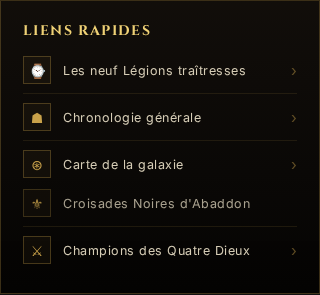
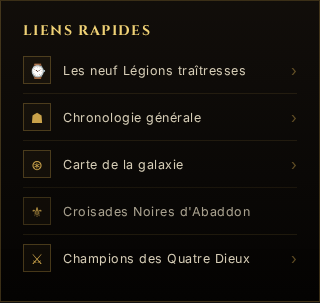
fix(L237): fiche faction, chaque rangée de la colonne latérale garde son filet
Le sélecteur .row-link:first-of-type visait le premier <div> (ou le premier <a>)
du bloc, pas la première rangée : une rangée en texte simple après des liens
(« Croisades Noires d'Abaddon », « Mythes du Panthéon ») perdait filet et marge
(39 px au lieu de 47), et un lien après une rangée texte aussi (« Carte de la
galaxie » chez les Aeldari). Désormais h3 + .row-link / h3 + .row-stat.

Test navigateur faction-rangees-l237.e2e.spec.ts (CSM et Aeldari, 1440 et 390 px,
rouge avant le correctif), ajouté à test:e2e. Captures de la Nouveauté refaites.

diff --git a/frontend/src/app/features/faction-detail/faction-rangees-l237.e2e.spec.ts b/frontend/src/app/features/faction-detail/faction-rangees-l237.e2e.spec.ts
@@ -1,0 +1,81 @@
+// @vitest-environment node
+// L237 (revue UX r1) — colonne latérale de la fiche faction : chaque rangée, lien ou texte simple, porte le même
+// filet et la même hauteur ; seule la première sous le titre du bloc n'a pas de filet. Avant :
+// `.row-link:first-of-type` visait le premier <div> du bloc, si bien qu'une rangée en texte simple placée après
+// des liens (« Croisades Noires d'Abaddon », « Mythes du Panthéon ») perdait filet et marge (39 px au lieu de 47)
+// et se lisait comme le sous-titre du lien du dessus (Gestalt, proximité). Navigateur réel, dist.
+import { afterAll, beforeAll, describe, expect, it } from 'vitest';
+import type { Server } from 'node:http';
+import type { Browser } from 'playwright-core';
+import { distState, startDistServer } from '../../../testing/dist-server';
+
+const { built, stale } = distState(['src/app/features/faction-detail/faction-detail.component.scss', 'src/app/features/faction-detail/faction-detail.component.ts']);
+let chromium: typeof import('playwright-core').chromium | null = null;
+try {
+  chromium = (await import('playwright-core')).chromium;
+} catch {
+  chromium = null;
+}
+
+type Rangee = { bloc: string; label: string; statique: boolean; premiere: boolean; filet: string; haut: number; hauteur: number };
+
+describe.skipIf(!built || !chromium)('rangées de la colonne latérale de la fiche faction (navigateur, dist) — L237', () => {
+  let server: Server;
+  let browser: Browser;
+  let base: string;
+  beforeAll(async () => {
+    ({ base, server } = await startDistServer());
+    browser = await chromium!.launch();
+  });
+  afterAll(async () => {
+    await browser?.close();
+    server?.close();
+  });
+
+  it('application construite à jour (sinon : ng build)', () => {
+    expect(stale).toBe(false);
+  });
+
+  for (const [id, texte] of [['chaos-space-marines', "Croisades Noires d'Abaddon"], ['aeldari', 'Mythes du Panthéon']] as const) {
+    for (const w of [1440, 390]) {
+      it(`${id} à ${w} px : « ${texte} » (texte simple) a le filet et la hauteur d'une rangée lien`, async () => {
+        const page = await browser.newPage({ viewport: { width: w, height: 900 } });
+        await page.goto(`${base}/factions/${id}`);
+        await page.locator('aside .sp .row-link').first().waitFor();
+        const rangees: Rangee[] = await page.evaluate(() =>
+          [...document.querySelectorAll('aside .sp')].flatMap((sp) => {
+            const bloc = sp.querySelector('h3')?.textContent?.trim() ?? '';
+            return [...sp.querySelectorAll<HTMLElement>('.row-link')].map((r) => {
+              const cs = getComputedStyle(r);
+              return {
+                bloc,
+                label: r.querySelector('.rl-label')?.textContent?.trim() ?? '',
+                statique: r.classList.contains('static'),
+                premiere: r.previousElementSibling?.tagName === 'H3',
+                filet: cs.borderTopWidth,
+                haut: parseFloat(cs.paddingTop),
+                hauteur: Math.round(r.getBoundingClientRect().height),
+              };
+            });
+          }),
+        );
+        await page.close();
+        const cible = rangees.find((r) => r.label === texte);
+        expect(cible, `rangée « ${texte} » absente`).toBeDefined();
+        expect(cible!.statique).toBe(true);
+        expect(cible!.premiere).toBe(false);
+        for (const r of rangees) {
+          if (r.premiere) {
+            expect(r.filet, `${r.bloc} › ${r.label}`).toBe('0px');
+          } else {
+            expect(r.filet, `${r.bloc} › ${r.label}`).toBe('1px');
+            expect(r.haut, `${r.bloc} › ${r.label}`).toBe(9);
+          }
+        }
+        const lien = rangees.find((r) => !r.statique && !r.premiere && r.bloc === cible!.bloc);
+        expect(lien, 'aucune rangée lien comparable dans le bloc').toBeDefined();
+        expect(cible!.hauteur).toBe(lien!.hauteur);
+      }, 60_000);
+    }
+  }
+});

diff --git a/frontend/vitest.e2e.config.ts b/frontend/vitest.e2e.config.ts
@@ -25,6 +25,8 @@ export default defineConfig({
       path.resolve(__dirname, 'src/app/core/utils/morceau-absent.e2e.spec.ts'),
       // L40 : les pages pilotes de la densité (fiches faction et primarque) tiennent les règles D1 à D6 à 1440 et 390 px.
       path.resolve(__dirname, 'src/app/features/densite-pilotes-l40.e2e.spec.ts'),
+      // L237 : sur la fiche faction, une rangée en texte simple garde le filet et la hauteur d'une rangée lien.
+      path.resolve(__dirname, 'src/app/features/faction-detail/faction-rangees-l237.e2e.spec.ts'),
       // L224 : la date de la chronologie d'un Primarque ne chevauche plus le titre de sa bataille (320, 390, 1440 px).
       path.resolve(__dirname, 'src/app/features/primarch-detail/primarch-chronologie-l224.e2e.spec.ts'),
       // L225 : les titres h2 des fiches faction et Primarque tiennent dans leur panneau à 320 px (« ✠ ICONOGRAPHIE » débordait).

diff --git a/frontend/src/app/features/faction-detail/faction-detail.component.scss b/frontend/src/app/features/faction-detail/faction-detail.component.scss
@@ -604,7 +604,9 @@
       text-decoration: none;
       transition: opacity 0.2s;
     }
-    .row-link:first-of-type, .row-stat:first-of-type { border-top: 0; padding-top: 2px; }
+    // L237 : seule la rangée collée au titre perd son filet (lien, texte simple ou statistique) ;
+    // :first-of-type visait le premier <div>, donc une rangée en texte après un lien.
+    h3 + .row-link, h3 + .row-stat { border-top: 0; padding-top: 2px; }
     .row-link:hover { opacity: 0.78; }
     .row-link.static {
       cursor: default;
